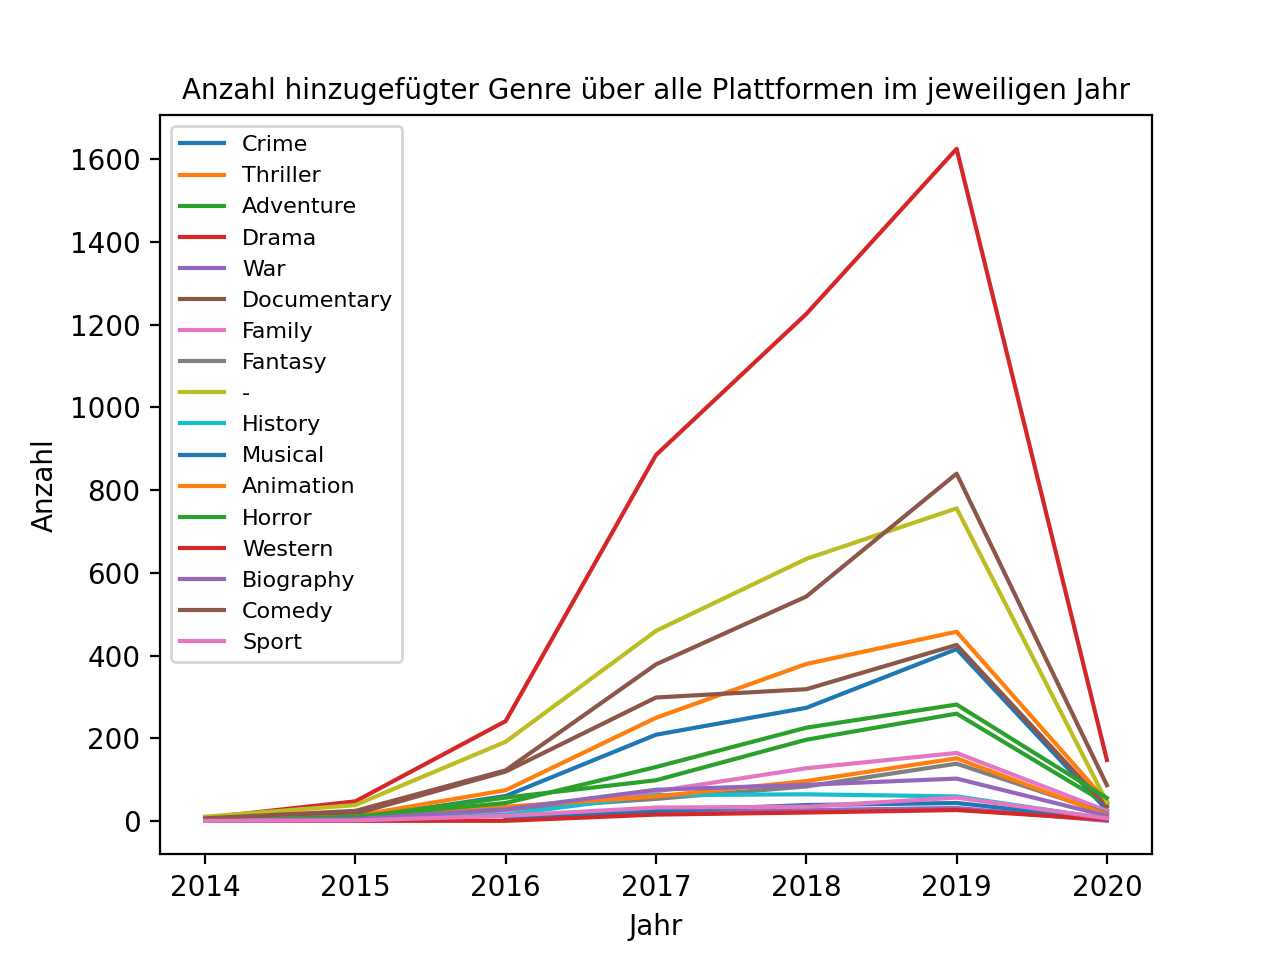
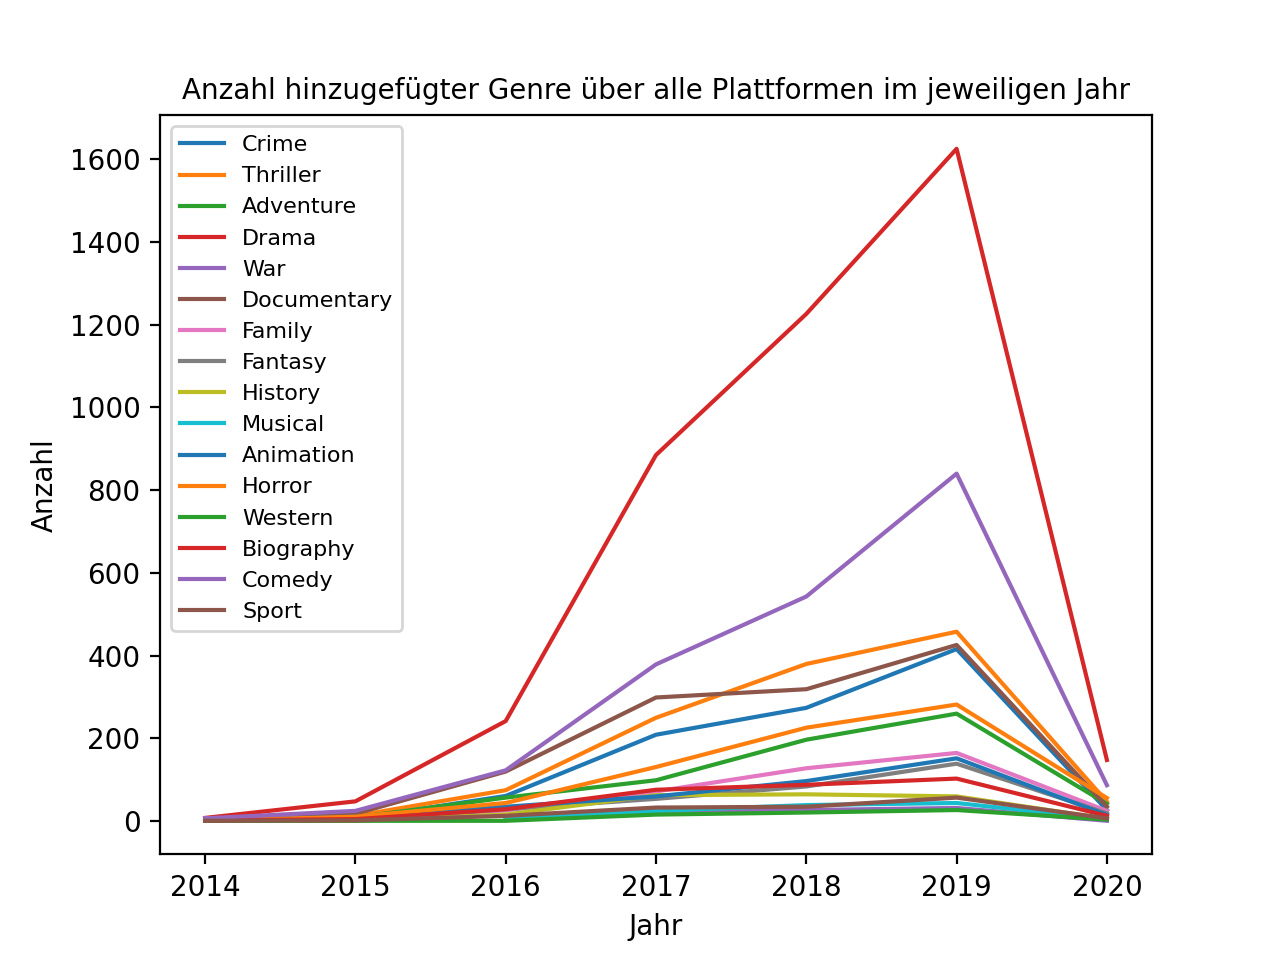
updatet plots

diff --git a/Python_Files/plot.py b/Python_Files/plot.py
@@ -9,6 +9,8 @@ df = pd.read_csv("../datasets_pyspark/combined_year_count.csv")
 df2 = pd.read_csv("../datasets_pyspark/combined_count.csv")
 df3 = pd.read_csv("../datasets_pyspark/trending_genre_count.csv")
 df4 = pd.read_csv("../datasets_pyspark/release_plattform_mean_var.csv")
+df5 = pd.read_csv("../datasets_pyspark/original_genre.csv")
+df6 = pd.read_csv("../datasets_pyspark/union_original.csv")
 
 
 def plot_gesamt_rausgekommen():
@@ -20,11 +22,12 @@ def plot_gesamt_rausgekommen():
 
 
 def plot_genres_year():
-    df3 = df2.drop('Genre', 1)
-    df3 = df3.transpose()
+    df_3 = df2[(df2['Genre'] != '-') & (df2['Genre'] != '\\N')]
+    df_31 = df_3.drop('Genre', 1)
+    df_31 = df_31.transpose()
 
-    for column, genre in zip(df3, df2['Genre']):
-        plt.plot(df3[column], label=genre)
+    for column, genre in zip(df_31, df_3['Genre']):
+        plt.plot(df_31[column], label=genre)
 
     plt.xlabel("Jahr")
     plt.ylabel("Anzahl")
@@ -33,9 +36,10 @@ def plot_genres_year():
     plt.show()
 
 def plot_trending_genres():
-    labels=df3["Genre"]
+    df_3 = df3[(df3['Genre'] != '-') & (df3['Genre'] != '\\N')]
+    labels=df_3["Genre"]
 
-    plt.pie(df3["Anzahl"], labels=labels, autopct='%1.1f%%', startangle=90, pctdistance=0.85)
+    plt.pie(df_3["Anzahl"], labels=labels, autopct='%1.1f%%', startangle=90, pctdistance=0.85)
     centre_circle = plt.Circle((0,0),0.70,fc='white')
     fig = plt.gcf()
     fig.gca().add_artist(centre_circle)
@@ -44,6 +48,28 @@ def plot_trending_genres():
     plt.title("Genreverteilung der beliebten Serien auf Netflix 2019 ", fontsize=10)
 
     plt.show()
+
+
+def plot_original_genres():
+    df_5 = df5[(df5['Genre']!='-') & (df5['Genre']!='\\N')]
+    labels=df_5["Genre"]
+    ax = df_5.plot(kind='bar', width=0.9)
+    ax.set_xticklabels(labels, fontsize=6)
+    plt.title("Genreverteilung der Original Netflix-Titel", fontsize=10)
+    plt.show()
+
+
+def plot_union_original():
+    labels=['Original', 'Nicht Original']
+    fig = plt.figure(figsize=(5, 3))
+    plt.pie(df6["Anzahl"], autopct='%1.1f%%', startangle=90, pctdistance=0.85)
+    plt.legend(labels, loc="best")
+    plt.axis('equal')
+    plt.tight_layout()
+    plt.title("Anteil an Netflix-Originals in den beliebten Serien 2019 auf Netflix ", fontsize=10)
+
+    plt.show()
+
 
 def plot_release_platform():
     df = pd.read_csv("/Users/lstrauch/Documents/Uni/Semester_3/Big_Data/Projekt/datasets_pyspark/release_plattform_count.csv")
@@ -64,7 +90,6 @@ def errorbar_rating():
 
 def published_trending():
     df = pd.read_csv("/Users/lstrauch/Documents/Uni/Semester_3/Big_Data/Projekt/datasets_pyspark/trending_year_count.csv")
-
     labels = df["Date_Added"]
 
     plt.pie(df["Anzahl"], autopct='%1.1f%%', startangle=80, pctdistance=0.85)
@@ -73,7 +98,6 @@ def published_trending():
     fig = plt.gcf()
     fig.gca().add_artist(centre_circle)
     plt.axis('equal')
-    plt.tight_layout()
     plt.title("Veröffentlichungsjahre der beliebten Serien aus 2019 von Netflix", fontsize=10)
     plt.tight_layout()
     plt.show()
@@ -86,4 +110,8 @@ if __name__ == "__main__":
     plot_release_platform()
     errorbar_rating()
     published_trending()
+    plot_original_genres()
+    plot_union_original()
+
+
 
